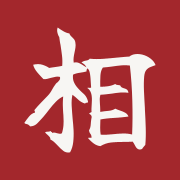
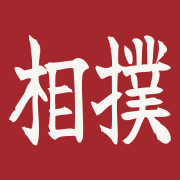
feat: 머리글 도장 제거, 파비콘 相撲 두 글자, 모바일 검색창·반즈케 계급 칸 넘침 수정
- 메인·검색 머리글의 빨간 相撲 도장 제거
- 파비콘·apple-touch-icon을 가로 相撲(Yuji Syuku)로, 캐시 무효화용 ?v=2
- 모바일: 검색창이 최소 너비 아래로 못 줄어 버튼·즐겨찾기가 화면 밖으로 밀리던 문제
- 모바일: 반즈케 계급 칸 "마에가시라12"가 칸 밖으로 넘치던 문제 (순번 다음 줄, 칸 22%)

Changed region(s): [[0.0278, 0.1389, 0.9722, 0.8611]]

diff --git a/src/main/resources/templates/index.html b/src/main/resources/templates/index.html
@@ -49,24 +49,6 @@
             margin-bottom: 36px;
         }
 
-        .seal {
-            position: absolute;
-            top: -18px;
-            right: 22px;
-            width: 58px;
-            height: 58px;
-            background: var(--shu);
-            color: var(--washi);
-            display: flex;
-            align-items: center;
-            justify-content: center;
-            font-family: 'Yuji Syuku', serif;
-            font-size: 26px;
-            letter-spacing: -2px;
-            transform: rotate(-4deg);
-            box-shadow: 0 2px 3px rgba(0,0,0,0.3), inset 0 0 0 2px rgba(247,246,243,0.5);
-        }
-
         .brand-row {
             display: flex;
             align-items: baseline;
@@ -137,6 +119,15 @@
         }
 
         .search-wrap button:hover { background: var(--shu-deep); border-color: var(--shu-deep); }
+
+        /* 모바일: 검색창이 기본 최소 너비(약 20자) 아래로 줄어들지 못해 검색 버튼·즐겨찾기 링크가 화면 밖으로 밀리던 문제.
+           좁은 화면에서는 즐겨찾기 링크를 다음 줄로 내린다 */
+        .search-wrap form { display: flex; gap: 10px; flex: 1; min-width: 0; }
+        .search-wrap input[type="text"] { min-width: 0; }
+        @media (max-width: 520px) {
+            .search-wrap { flex-wrap: wrap; row-gap: 8px; }
+            .search-wrap form { flex-basis: 100%; }
+        }
 
         /* ===== 언어 스위처 ===== */
         .lang-switch {
@@ -492,7 +483,12 @@
             .r-Maegashira { font-size: 12.5px; }
             .rikishi-cell { padding: 8px 6px; }
             .sub-info { font-size: 9.5px; }
-            .rank-cell { font-size: 11px; letter-spacing: 0.5px; }
+            /* 계급 칸이 좁아 "마에가시라12"가 칸 밖으로 넘치므로: 칸을 넓히고 순번은 다음 줄로 */
+            .banzuke-table thead th.col-rank { width: 22%; }
+            .banzuke-table thead th.col-east,
+            .banzuke-table thead th.col-west { width: 39%; }
+            .rank-cell { font-size: 10.5px; letter-spacing: 0; white-space: normal; line-height: 1.35; }
+            .rank-no { display: block; }
             .banzuke-table thead th { font-size: 10px; letter-spacing: 2px; }
         }
     </style>
@@ -501,7 +497,6 @@
 <div class="page">
 
     <header>
-        <div class="seal">相撲</div>
         <div class="brand-row">
             <a class="brand-jp" th:href="@{/}">相撲archive</a>
             <span class="brand-kr">스모아카이브</span>
@@ -509,7 +504,7 @@
         <div class="brand-sub">SUMO RANKING &amp; RIKISHI ARCHIVE</div>
 
         <div class="search-wrap">
-            <form th:action="@{/search}" method="get" style="display: flex; gap: 10px; flex: 1;">
+            <form th:action="@{/search}" method="get">
                 <input type="text" name="keyword" th:placeholder="#{main.search.placeholder}" placeholder="시코나 검색">
                 <button type="submit" th:text="#{main.search.button}">검색</button>
             </form>
@@ -737,13 +732,16 @@
         });
     }
 
-    function rankCellText(rankName, rankValue) {
-        const label = RANK_LABEL[rankName] || rankName;
-        // 마에가시라/주료 이하는 순번을 붙임 (예: 前頭10)
+    // 계급 칸 채우기. 마에가시라/주료 이하는 순번을 붙임 (예: 前頭10).
+    // 순번은 따로 span으로 둬서 좁은 화면에서는 다음 줄로 내린다 (CSS .rank-no)
+    function fillRankCell(td, rankName, rankValue) {
+        td.textContent = RANK_LABEL[rankName] || rankName;
         if (rankValue != null && (rankName === 'Maegashira' || RANK_ORDER[rankName] >= RANK_ORDER.Juryo)) {
-            return label + rankValue;
+            const no = document.createElement('span');
+            no.className = 'rank-no';
+            no.textContent = rankValue;
+            td.appendChild(no);
         }
-        return label;
     }
 
     function makeRikishiCell(row, rankName) {
@@ -799,7 +797,7 @@
 
             const rankTd = document.createElement('td');
             rankTd.className = 'rank-cell';
-            rankTd.textContent = rankCellText(entry.rankName, entry.rankValue);
+            fillRankCell(rankTd, entry.rankName, entry.rankValue);
             tr.appendChild(rankTd);
 
             tr.appendChild(makeRikishiCell(entry.west, entry.rankName));

diff --git a/src/main/resources/templates/search/result.html b/src/main/resources/templates/search/result.html
@@ -48,24 +48,6 @@
             margin-bottom: 30px;
         }
 
-        .seal {
-            position: absolute;
-            top: -16px;
-            right: 22px;
-            width: 50px;
-            height: 50px;
-            background: var(--shu);
-            color: var(--washi);
-            display: flex;
-            align-items: center;
-            justify-content: center;
-            font-family: 'Yuji Syuku', serif;
-            font-size: 22px;
-            letter-spacing: -2px;
-            transform: rotate(-4deg);
-            box-shadow: 0 2px 3px rgba(0,0,0,0.3), inset 0 0 0 2px rgba(247,246,243,0.5);
-        }
-
         .brand-row {
             display: flex;
             align-items: baseline;
@@ -134,6 +116,15 @@
             cursor: pointer;
         }
         .search-wrap button:hover { background: var(--shu-deep); border-color: var(--shu-deep); }
+
+        /* 모바일: 검색창이 기본 최소 너비(약 20자) 아래로 줄어들지 못해 검색 버튼·즐겨찾기 링크가 화면 밖으로 밀리던 문제.
+           좁은 화면에서는 즐겨찾기 링크를 다음 줄로 내린다 */
+        .search-wrap form { display: flex; gap: 10px; flex: 1; min-width: 0; }
+        .search-wrap input[type="text"] { min-width: 0; }
+        @media (max-width: 520px) {
+            .search-wrap { flex-wrap: wrap; row-gap: 8px; }
+            .search-wrap form { flex-basis: 100%; }
+        }
 
         /* ===== Result summary ===== */
         .result-summary {
@@ -311,13 +302,12 @@
 <div class="page">
 
     <header>
-        <div class="seal">相撲</div>
         <div class="brand-row">
             <a class="brand-jp" th:href="@{/}">相撲archive</a>
             <span class="brand-kr">스모아카이브</span>
         </div>
         <div class="search-wrap">
-            <form th:action="@{/search}" method="get" style="display: flex; gap: 10px; flex: 1;">
+            <form th:action="@{/search}" method="get">
                 <input type="text" name="keyword" th:value="${keyword}" th:placeholder="#{common.search.placeholder}" placeholder="시코나 또는 본명 검색">
                 <button type="submit" th:text="#{main.search.button}">검색</button>
             </form>

diff --git a/src/main/resources/templates/fragments/common.html b/src/main/resources/templates/fragments/common.html
@@ -10,8 +10,8 @@
 <th:block th:fragment="seo(title, description, indexable)">
     <meta name="description" th:content="${description}">
     <meta name="robots" content="noindex, follow" th:unless="${indexable}">
-    <link rel="icon" href="/favicon.ico" sizes="16x16 32x32 48x48">
-    <link rel="apple-touch-icon" href="/apple-touch-icon.png">
+    <link rel="icon" href="/favicon.ico?v=2" sizes="16x16 32x32 48x48">
+    <link rel="apple-touch-icon" href="/apple-touch-icon.png?v=2">
     <meta property="og:site_name" th:content="#{site.title}">
     <meta property="og:type" content="website">
     <meta property="og:title" th:content="${title}">
